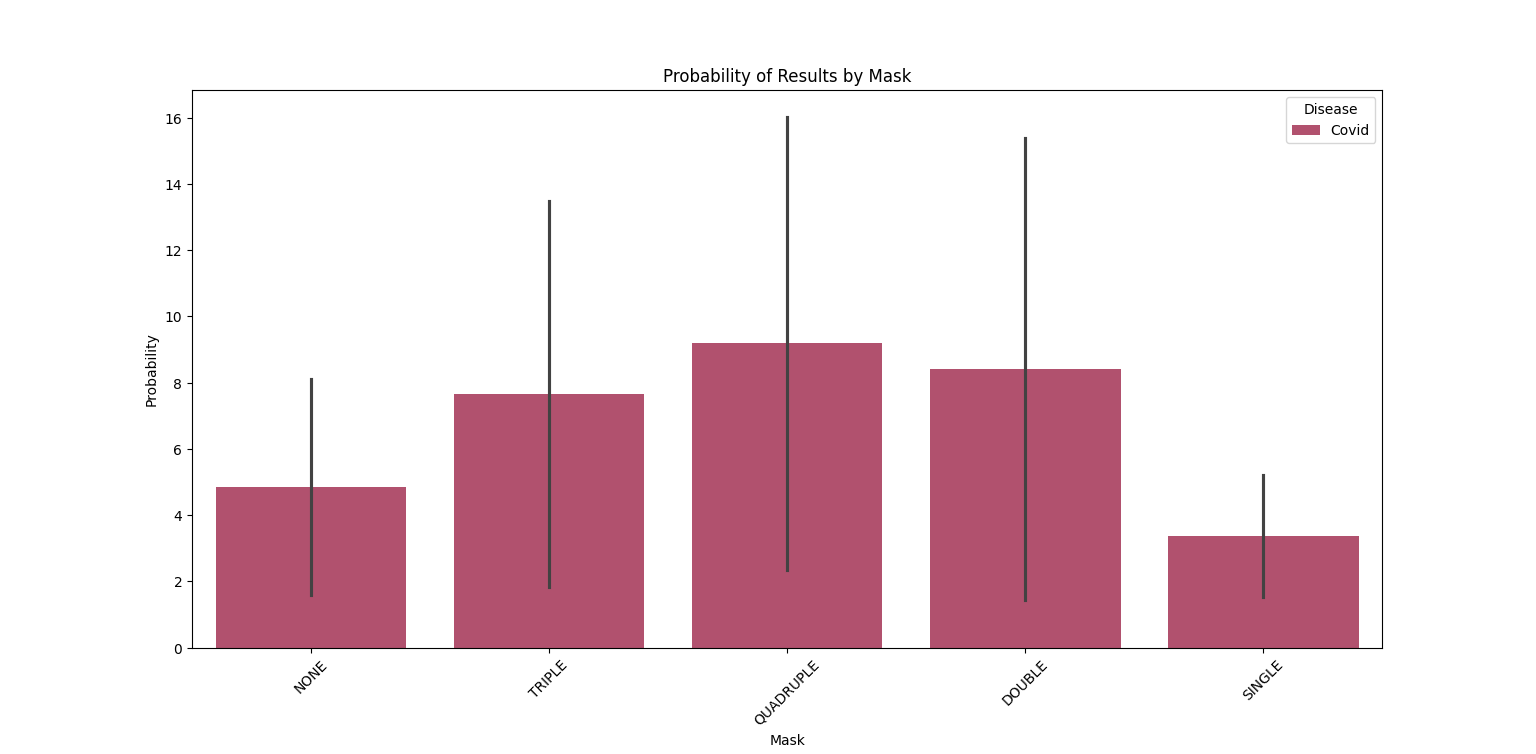
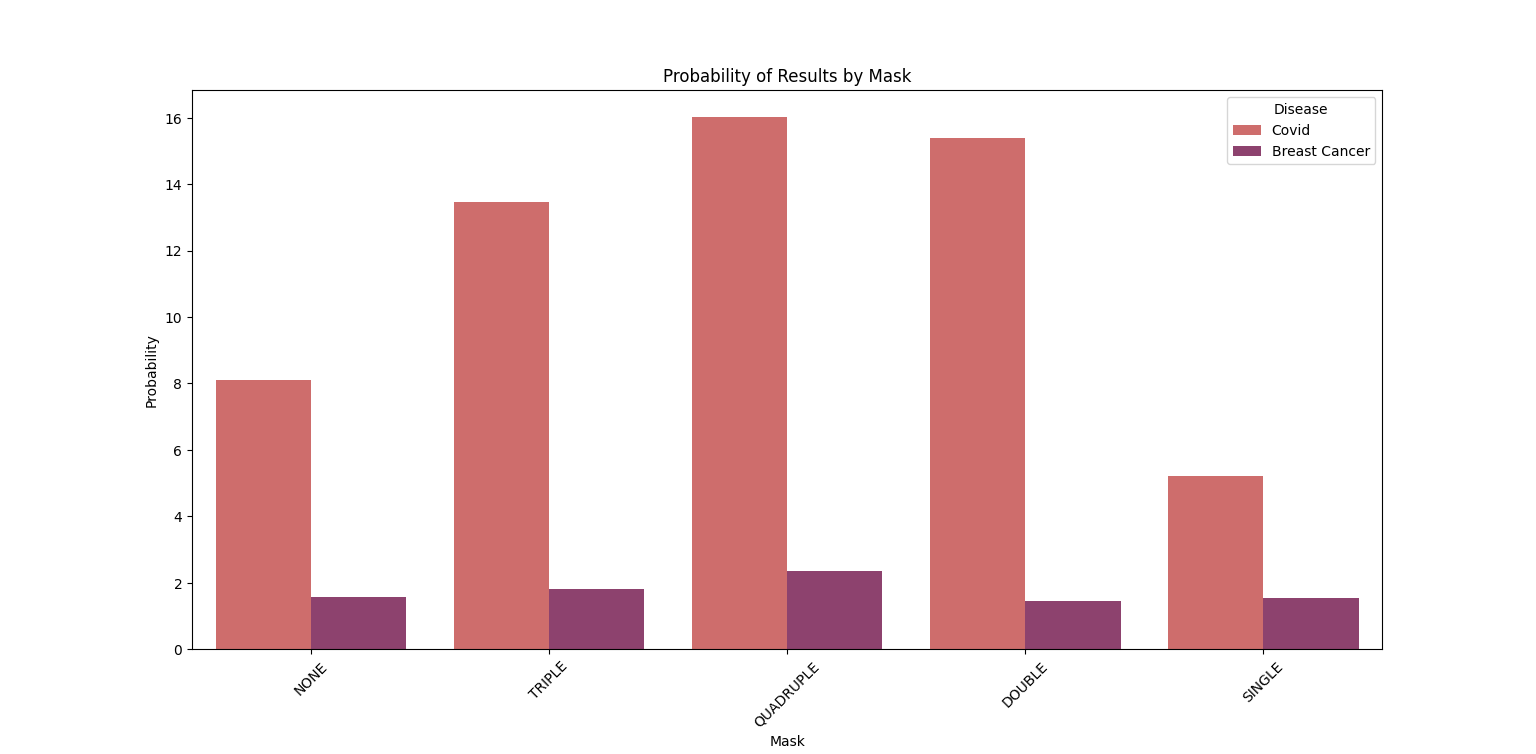
Design code tweaked

diff --git a/design.py b/design.py
@@ -95,7 +95,7 @@ for attribute in ["Allocation", "Intervention Model", "Mask", "Purpose"]:
 
         bcd[attribute].append(value)
         bcd["Probability"].append(percent)
-        bcd["Disease"].append("Covid")
+        bcd["Disease"].append("Breast Cancer")
 
     cPercents = pd.DataFrame(cd)
     bcPercents = pd.DataFrame(bcd)
